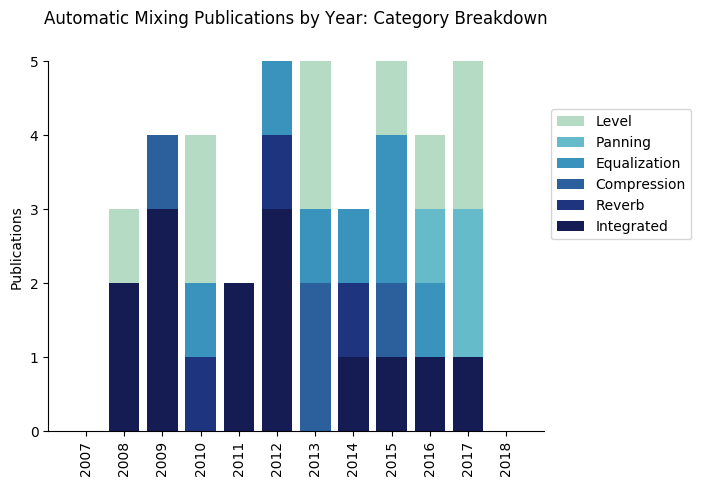
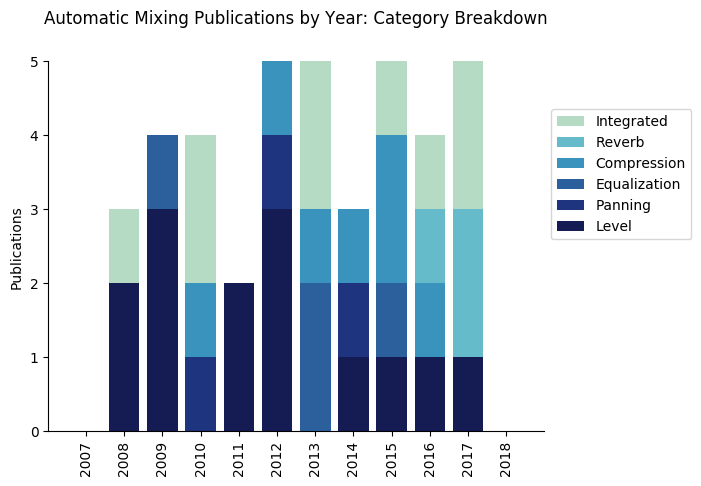
fixed errors in header.md and with category bar chart legend

Changed region(s): [[0.8388, 0.216, 0.9886, 0.4938]]

diff --git a/mixingpapers.py b/mixingpapers.py
@@ -17,8 +17,6 @@ def calculate_statistics(filename):
     
     approaches = {'GT' : 0, 'KE' : 0, 'ML' : 0}
 
-    total_pubs = 0
-
     approaches_by_year = {'GT' : years.copy(),
                           'KE' : years.copy(),
                           'ML' : years.copy()}
@@ -30,6 +28,8 @@ def calculate_statistics(filename):
                           'Reverb' : years.copy(),
                           'Integrated' : years.copy()}
    
+    total_pubs = 0
+
     with open(filename, "r+") as mixing:
         mixing_tsv = csv.DictReader(mixing, dialect='excel-tab')
         f = mixing_tsv.fieldnames
@@ -113,7 +113,7 @@ def calculate_statistics(filename):
     plt.xticks(years_num, years_num, rotation='vertical')
     plt.ylabel('Publications')
     plt.title('Automatic Mixing Publications by Year: Category Breakdown', y=1.08)
-    lgd = plt.legend((p6[0], p5[0], p4[0], p3[0], p2[0], p1[0]), ('Level', 'Panning', 'Equalization', 'Compression', 'Reverb', 'Integrated'), loc=3, bbox_to_anchor=(1, 0.5))
+    lgd = plt.legend((p6[0], p5[0], p4[0], p3[0], p2[0], p1[0]), ('Integrated', 'Reverb', 'Compression', 'Equalization', 'Panning', 'Level'), loc=3, bbox_to_anchor=(1, 0.5))
     plt.savefig('figs/categories_by_year.png',  additional_artists=lgd, bbox_inches="tight",  transparent=True)
 
     # plot pie chart of approaches

diff --git a/README.md b/README.md
@@ -11,14 +11,14 @@ Mixing is a complex process carried out by audio engineers during the music prod
 * `Compresssion`
 * `Reverb`
 
-Systems that incorporate more than one procees are categorized as `integrated`.
+Systems that incorporate more than one procees are categorized as `Integrated`.
 
 ### Approaches
 A number of different approaches have been employed to address the research problem of automatic mixing. They are organized using these three labels as outlined in [A Semantic Approach To Autonomous Mixing](http://arpjournal.com/a-semantic-approach-to-autonomous-mixing/) by Brecht De Man and Joshua D. Reiss.
 
-* `Grounded Theory` - Using pyschoacoustic or perceptual evaluation to design a mixing systems
-* `Knowledge Engineering` - Using collected 'best practices' to design a mixing system
-* `Machine Learning` - Using mulitrack mix data from audio engineers to train a mathematical model for a mixing system
+* `Grounded Theory` ( `GT` ) - Using pyschoacoustic or perceptual evaluation to design a mixing systems
+* `Knowledge Engineering` ( `KE` ) - Using collected 'best practices' to design a mixing system
+* `Machine Learning` ( `ML` ) - Using mulitrack mix data from audio engineers to train a mathematical model for a mixing system
 
 ## Level
 |Year|Title|Authors|Approach|Resources|

diff --git a/header.md b/header.md
@@ -11,12 +11,12 @@ Mixing is a complex process carried out by audio engineers during the music prod
 * `Compresssion`
 * `Reverb`
 
-Systems that incorporate more than one procees are categorized as `integrated`.
+Systems that incorporate more than one procees are categorized as `Integrated`.
 
 ### Approaches
 A number of different approaches have been employed to address the research problem of automatic mixing. They are organized using these three labels as outlined in [A Semantic Approach To Autonomous Mixing](http://arpjournal.com/a-semantic-approach-to-autonomous-mixing/) by Brecht De Man and Joshua D. Reiss.
 
-* `Grounded Theory` - Using pyschoacoustic or perceptual evaluation to design a mixing systems
-* `Knowledge Engineering` - Using collected 'best practices' to design a mixing system
-* `Machine Learning` - Using mulitrack mix data from audio engineers to train a mathematical model for a mixing system
+* `Grounded Theory` ( `GT` ) - Using pyschoacoustic or perceptual evaluation to design a mixing systems
+* `Knowledge Engineering` ( `KE` ) - Using collected 'best practices' to design a mixing system
+* `Machine Learning` ( `ML` ) - Using mulitrack mix data from audio engineers to train a mathematical model for a mixing system
 
